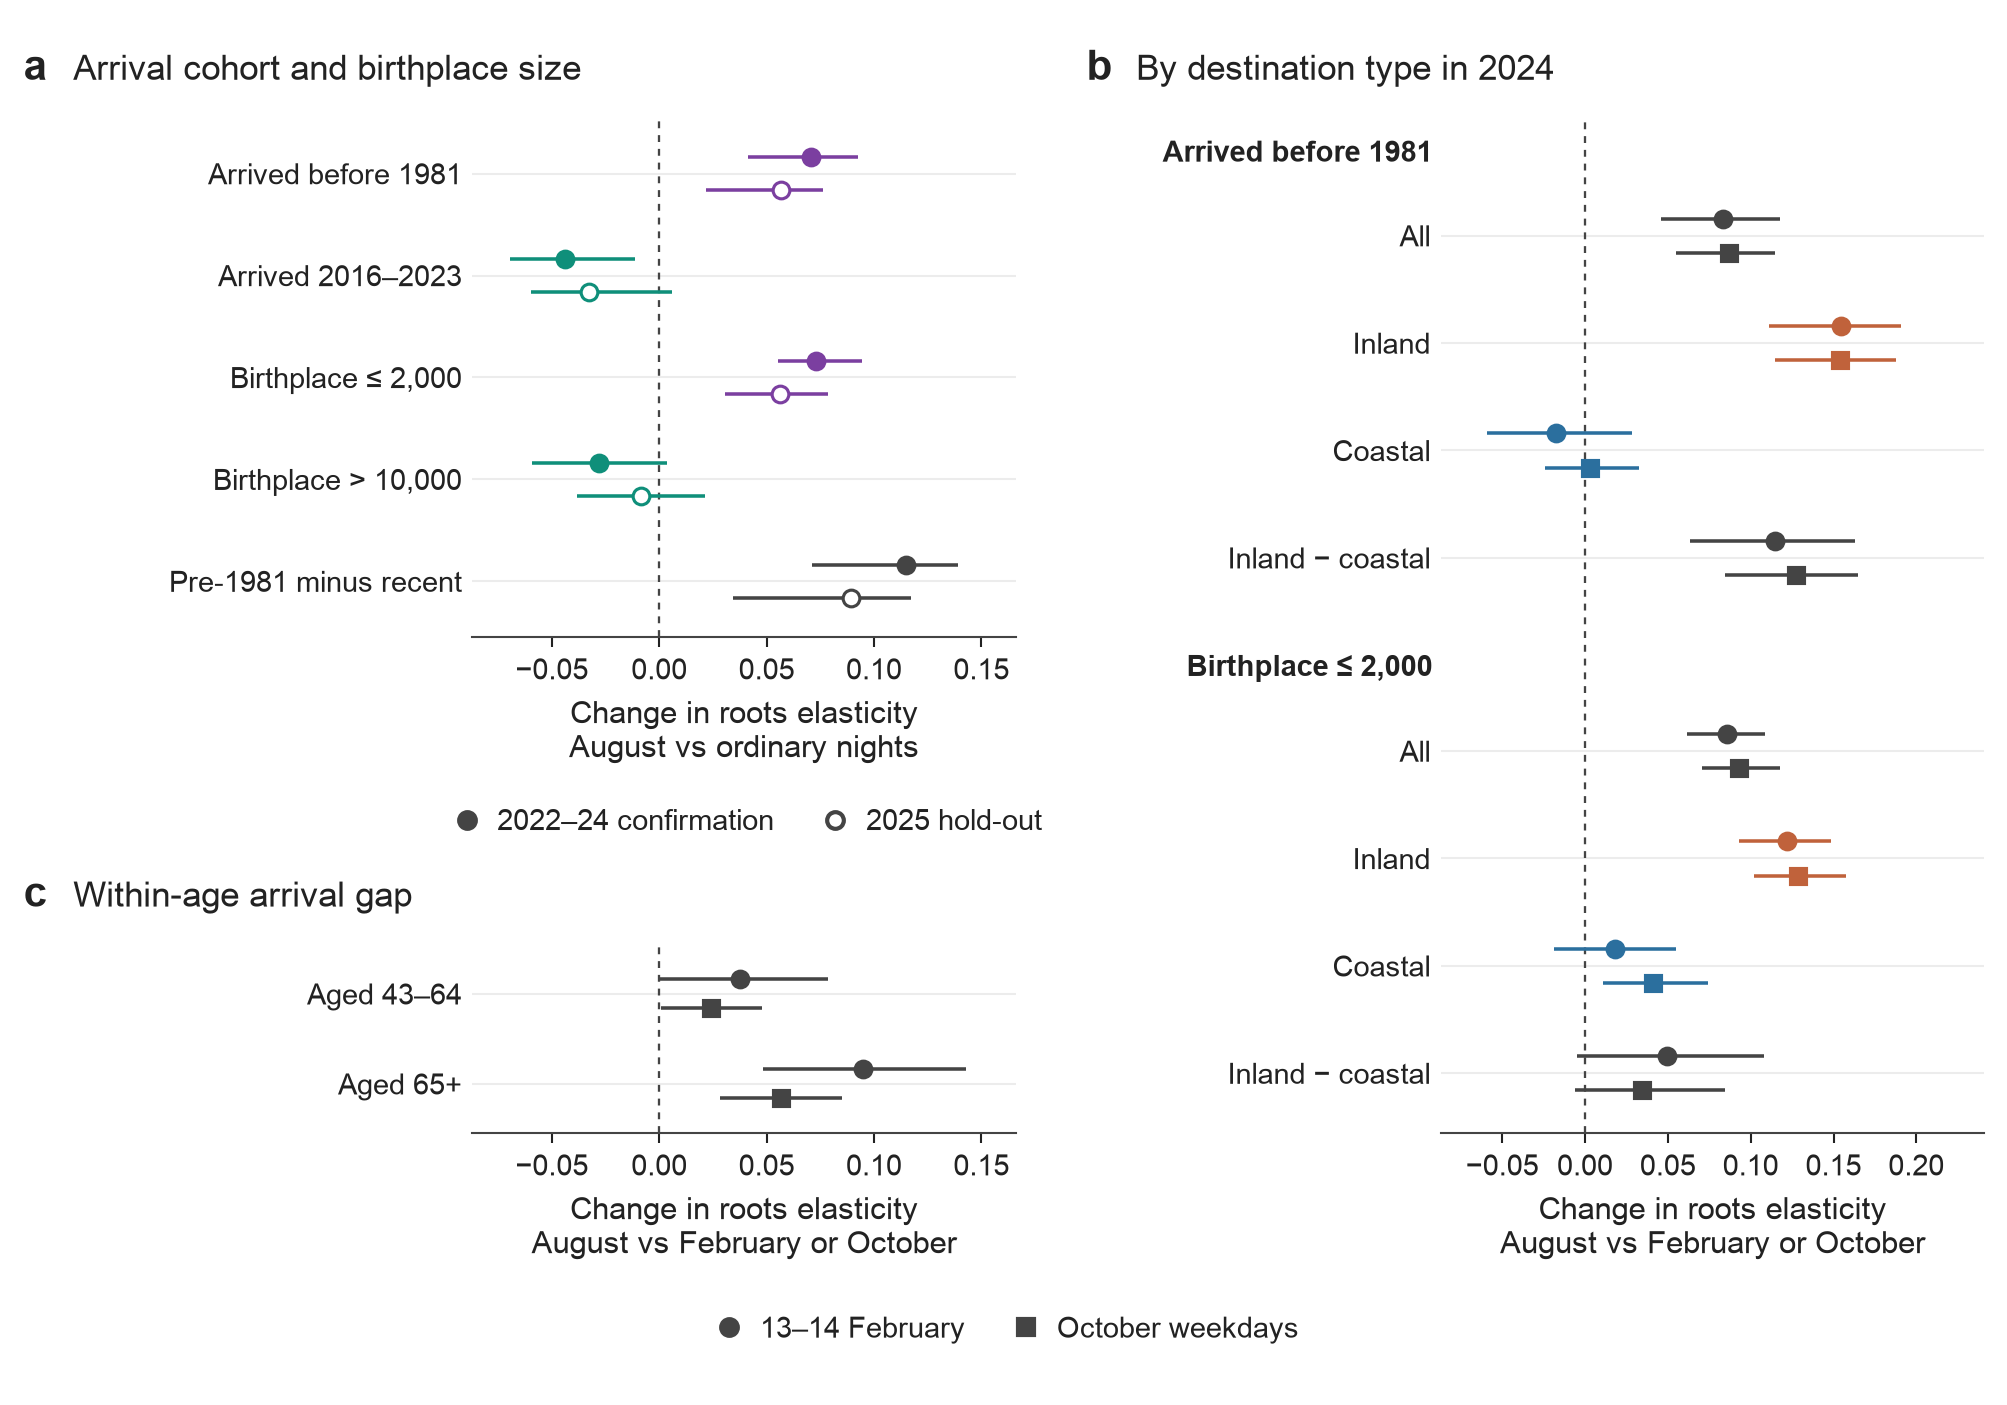
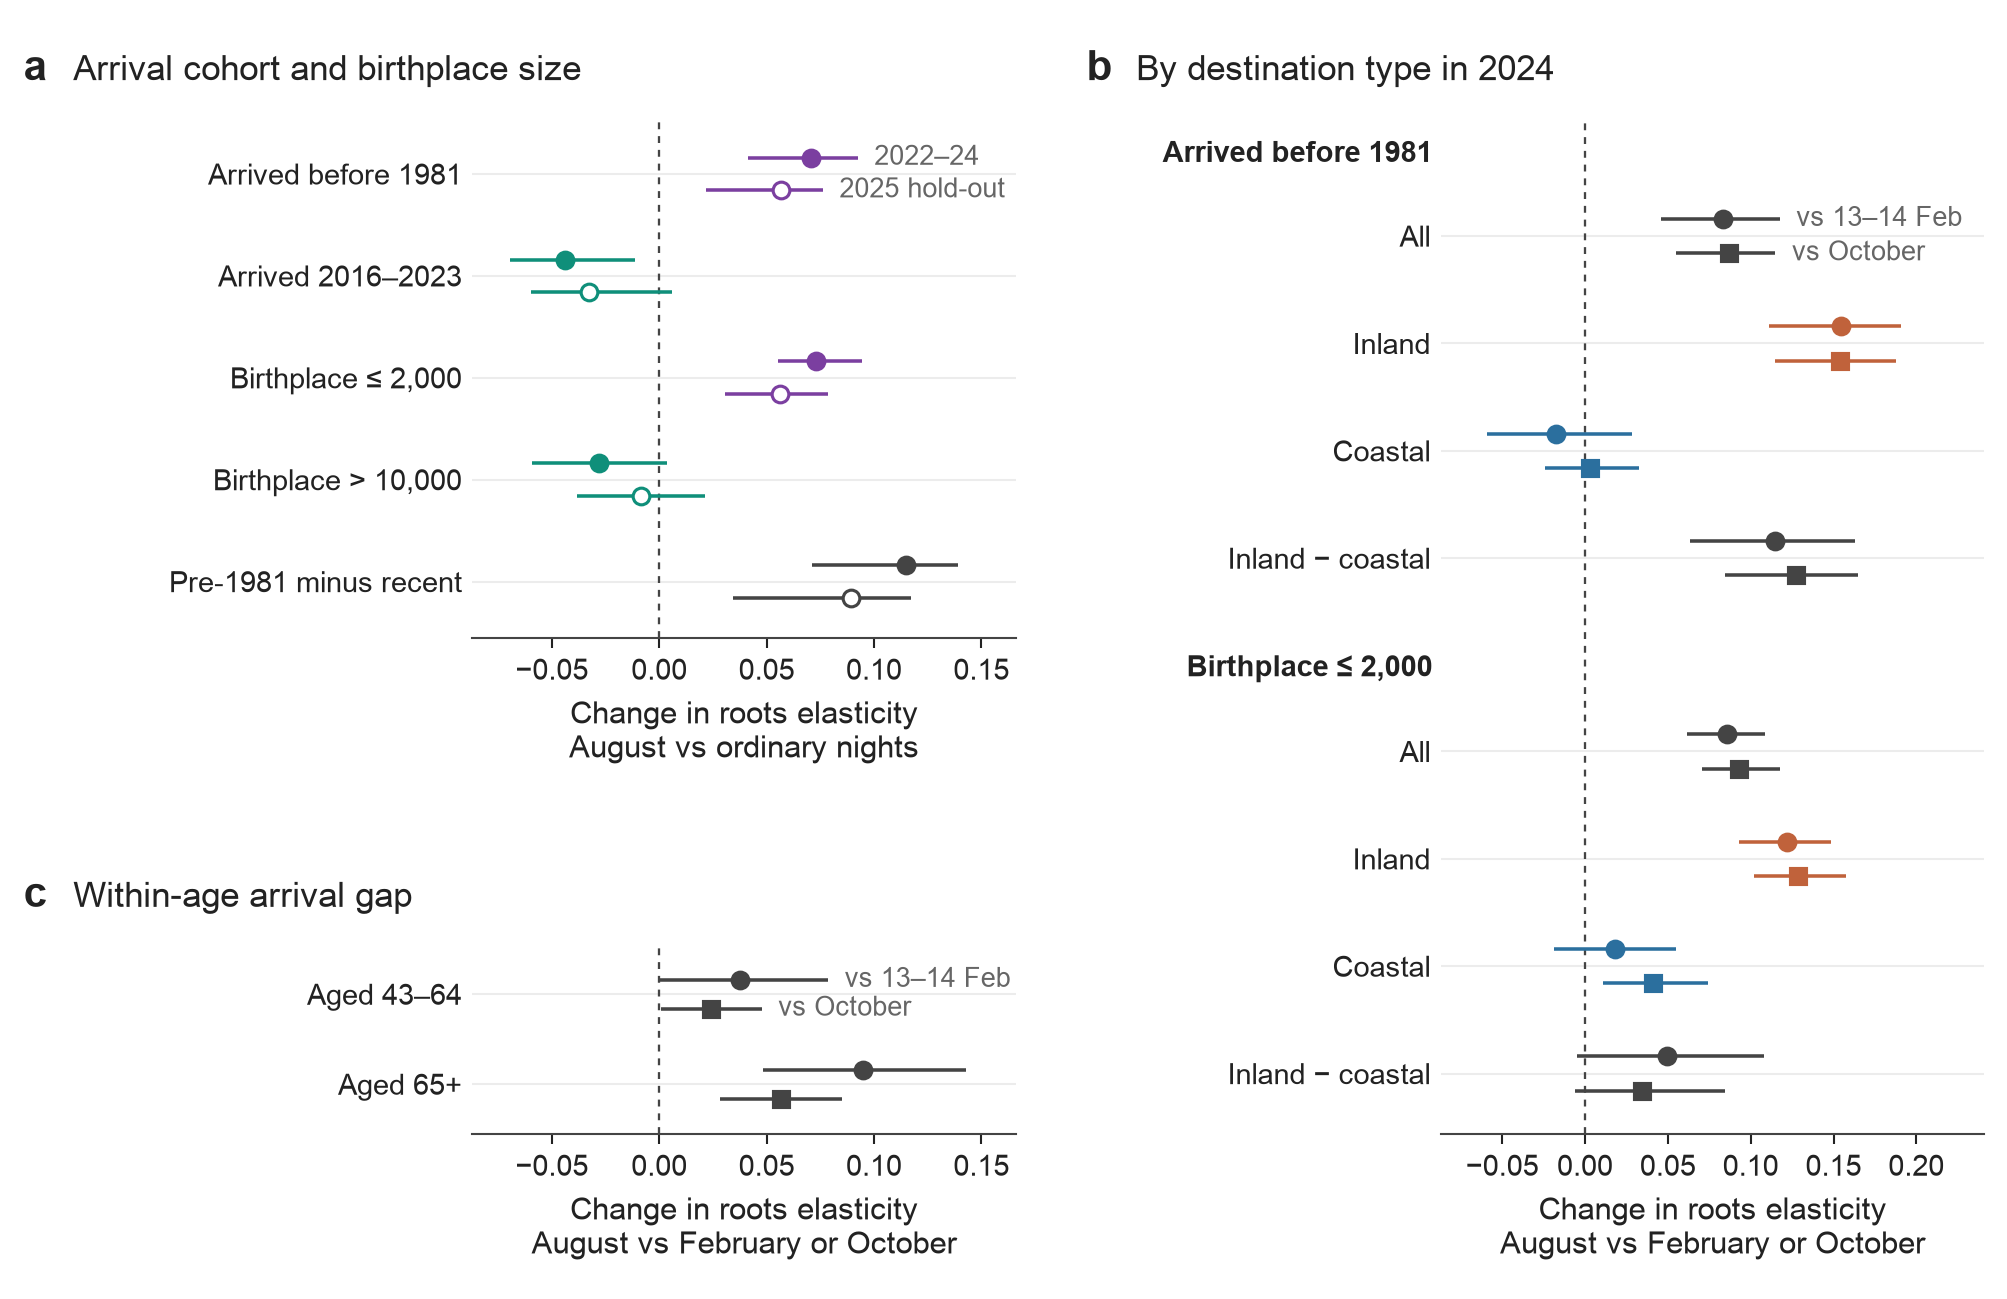
Journal: Fig. 3 direct labels instead of legends, panels b and c bottom-aligned

diff --git a/journal/figures/fig3_who_pulls.py b/journal/figures/fig3_who_pulls.py
@@ -7,7 +7,7 @@ from matplotlib.lines import Line2D
 import pandas as pd
 
 from style import (
-    A, A2, B, COAST, EXODUS, HERE, INLAND, MARK, NEUTRAL, OUT, RECENT, TEXT,
+    A, A2, B, COAST, EXODUS, HERE, INLAND, MARK, MUTED, NEUTRAL, OUT, RECENT, TEXT,
     decimals, figure, forest, interval, panel, place, read, save,
 )
 
@@ -21,6 +21,12 @@ GROUPS = {
 LEFT, RIGHT = 2.0, 92.0   # mm: panel-letter columns
 BASELINES = {"Aug15_vs_Feb14": ("o", -.16, "13–14 February"),
              "Aug15_vs_OctMean12": ("s", .16, "October weekdays")}
+
+
+def tag(ax, x, y, text):
+    """Direct label for the encoding, placed right of the first row's interval."""
+    ax.annotate(text, (x, y), xytext=(4, 0), textcoords="offset points", va="center",
+                fontsize=TEXT - .5, color=MUTED)
 
 
 def cohort_data():
@@ -50,13 +56,11 @@ def draw_cohorts(ax, data):
     for row in data.itertuples():
         i = list(GROUPS).index(row.hypothesis)
         filled = row.period != "2025"
-        interval(ax, i + (-.16 if filled else .16), row.est, row.ci_lo, row.ci_hi,
-                 color=GROUPS[row.hypothesis][1], filled=filled)
+        y = i + (-.16 if filled else .16)
+        interval(ax, y, row.est, row.ci_lo, row.ci_hi, color=GROUPS[row.hypothesis][1], filled=filled)
+        if i == 0:
+            tag(ax, row.ci_hi, y, "2022–24" if filled else "2025 hold-out")
     ax.set_xlabel("Change in roots elasticity\nAugust vs ordinary nights")
-    ax.legend(handles=[
-        Line2D([], [], ls="", marker="o", ms=MARK, color=NEUTRAL, label="2022–24 confirmation"),
-        Line2D([], [], ls="", marker="o", ms=MARK, mfc="white", color=NEUTRAL, label="2025 hold-out"),
-    ], loc="upper center", bbox_to_anchor=(.5, -.33), ncol=2)
 
 
 def draw_destinations(ax, data):
@@ -77,6 +81,8 @@ def draw_destinations(ax, data):
         marker, shift, _ = BASELINES[row.baseline]
         interval(ax, y + shift, row.point, row.ci_lo, row.ci_hi,
                  color=kinds[row.dest_type][1], marker=marker)
+        if (row.group, row.dest_type) == ("pre1981", "all"):
+            tag(ax, row.ci_hi, y + shift, "vs 13–14 Feb" if marker == "o" else "vs October")
     ax.set_xlabel("Change in roots elasticity\nAugust vs February or October")
 
 
@@ -87,6 +93,8 @@ def draw_age(ax, data):
         marker, shift, _ = BASELINES[row.contrast]
         position = 0 if row.term.startswith("within_43_64") else 1
         interval(ax, position + shift, row.delta, row.ci_wcr_lo, row.ci_wcr_hi, marker=marker)
+        if position == 0:
+            tag(ax, row.ci_wcr_hi, position + shift, "vs 13–14 Feb" if marker == "o" else "vs October")
     ax.set_xlabel("Change in roots elasticity\nAugust vs February or October")
 
 
@@ -102,15 +110,12 @@ def main():
         "spec == 'A2_age_matched_binary_43_64_and_65plus' and sample == 'all' and is_within_band_diff"
     )
     assert (len(cohorts), len(destinations), len(age)) == (10, 16, 4)
-    fig = figure(119)
+    fig = figure(110)
     draw_cohorts(place(fig, 40, 10, 46, 44), cohorts)
     draw_destinations(place(fig, 122, 10, 46, 86), destinations)
     draw_age(place(fig, 40, 80, 46, 16), age)
     for ax in fig.axes:
         ax.xaxis.set_major_formatter(decimals(2))
-    fig.legend(handles=[Line2D([], [], ls="", marker=shape, ms=MARK, color=NEUTRAL, label=label)
-                        for shape, _, label in BASELINES.values()],
-               loc="upper center", bbox_to_anchor=(.5, 1 - 111.5 / 119), ncol=2)
     save(fig, 3, cohorts.assign(panel="a"), destinations.assign(panel="b"), age.assign(panel="c"))
 
 

diff --git a/journal/manuscript/main.tex b/journal/manuscript/main.tex
@@ -191,7 +191,7 @@ When the two arrival shares enter together, the pre-1981 term increases by 0.071
 \begin{figure}[!htbp]
 \centering
 \includegraphics[width=\textwidth]{fig3.pdf}
-\caption{\textbf{Which birthplaces gain weight in August.} All horizontal axes show changes in roots elasticity. \textbf{a} Arrival-cohort and birthplace-size contrasts for 675 cities across 44 origin provinces. Filled points show 2022--2024 confirmation against new ordinary nights. Open points show the 2025 hold-out. The urban-born contrast is the companion term of the village-born model. \textbf{b} Contrasts for 14--15 August 2024 against 13--14 February and the mean of 12 October weekday nights. Inland and coastal labels refer to destination zones. The direct difference uses the 19 provinces with both types of destination. \textbf{c} Pre-1981 minus later-arrival contrasts for the same nights within two age bands. The later group is 2016--2023 arrivals for ages 43--64 and arrivals from 1981 onwards for ages 65 and over. All intervals use origin-province clusters. The urban-born row shows 95\% cluster-robust intervals. The other rows use 95\% wild-cluster bootstrap intervals.}
+\caption{\textbf{Which birthplaces gain weight in August.} All horizontal axes show changes in roots elasticity. \textbf{a} Arrival-cohort and birthplace-size contrasts for 675 cities across 44 origin provinces. Filled points show 2022--2024 confirmation against new ordinary nights. Open points show the 2025 hold-out. The urban-born contrast is the companion term of the village-born model. \textbf{b} Contrasts for 14--15 August 2024 against 13--14 February (circles) and the mean of 12 October weekday nights (squares); the first row of each panel labels the symbols. Inland and coastal labels refer to destination zones. The direct difference uses the 19 provinces with both types of destination. \textbf{c} Pre-1981 minus later-arrival contrasts for the same nights within two age bands. The later group is 2016--2023 arrivals for ages 43--64 and arrivals from 1981 onwards for ages 65 and over. All intervals use origin-province clusters. The urban-born row shows 95\% cluster-robust intervals. The other rows use 95\% wild-cluster bootstrap intervals.}
 \label{fig:who}
 \end{figure}
 

diff --git a/journal/figures/captions.md b/journal/figures/captions.md
@@ -10,7 +10,7 @@
 
 ## Figure 3. Which birthplaces gain weight in August
 
-All horizontal axes show changes in roots elasticity. **a** Arrival-cohort and birthplace-size contrasts for 675 cities across 44 origin provinces. Filled points show 2022–2024 confirmation against new ordinary nights. Open points show the 2025 hold-out. The urban-born contrast is the companion term of the village-born model. **b** Contrasts for 14–15 August 2024 against 13–14 February and the mean of 12 October weekday nights. Inland and coastal labels refer to destination zones. The direct difference uses the 19 provinces with both types of destination. **c** Pre-1981 minus later-arrival contrasts for the same nights within two age bands. The later group is 2016–2023 arrivals for ages 43–64 and arrivals from 1981 onwards for ages 65 and over. All intervals use origin-province clusters. The urban-born row shows 95% cluster-robust intervals. The other rows use 95% wild-cluster bootstrap intervals.
+All horizontal axes show changes in roots elasticity. **a** Arrival-cohort and birthplace-size contrasts for 675 cities across 44 origin provinces. Filled points show 2022–2024 confirmation against new ordinary nights. Open points show the 2025 hold-out. The urban-born contrast is the companion term of the village-born model. **b** Contrasts for 14–15 August 2024 against 13–14 February (circles) and the mean of 12 October weekday nights (squares); the first row of each panel labels the symbols. Inland and coastal labels refer to destination zones. The direct difference uses the 19 provinces with both types of destination. **c** Pre-1981 minus later-arrival contrasts for the same nights within two age bands. The later group is 2016–2023 arrivals for ages 43–64 and arrivals from 1981 onwards for ages 65 and over. All intervals use origin-province clusters. The urban-born row shows 95% cluster-robust intervals. The other rows use 95% wild-cluster bootstrap intervals.
 
 ## Figure 4. The receiving end of holiday mobility
 
